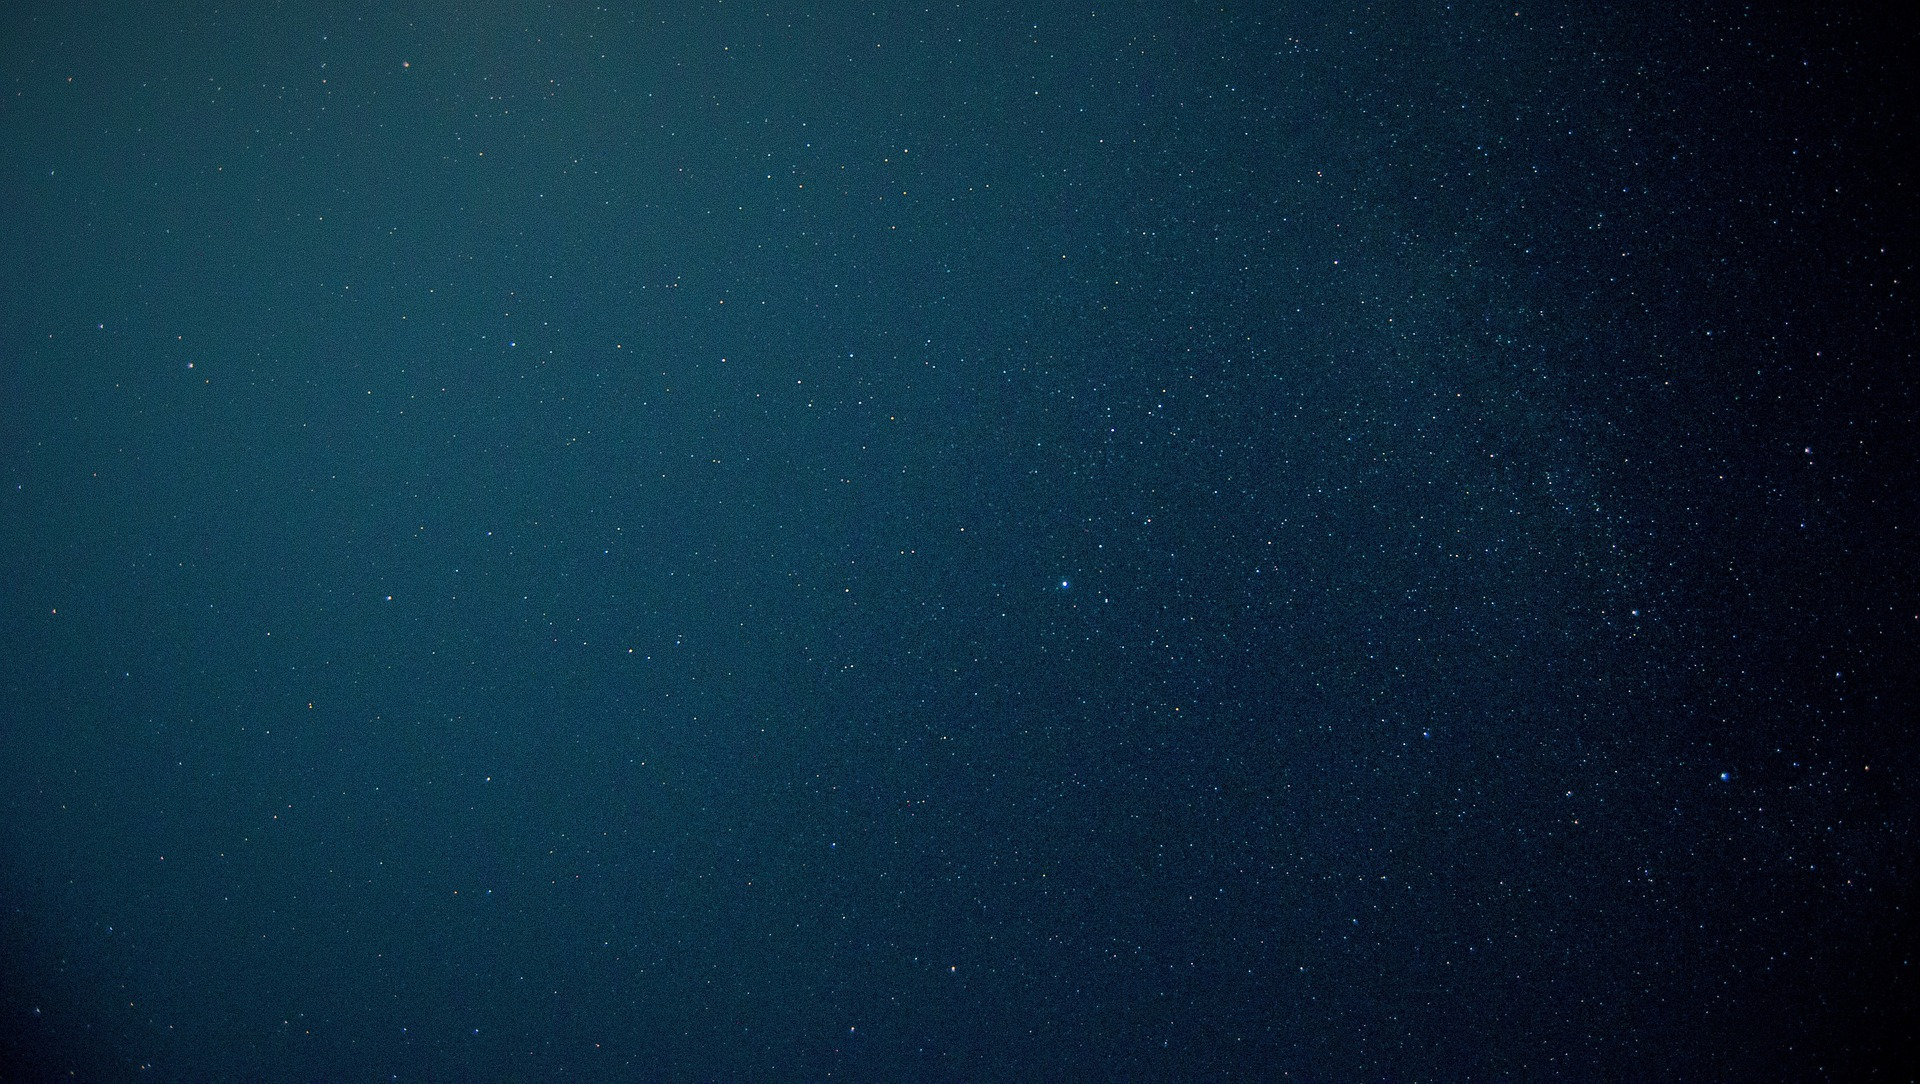
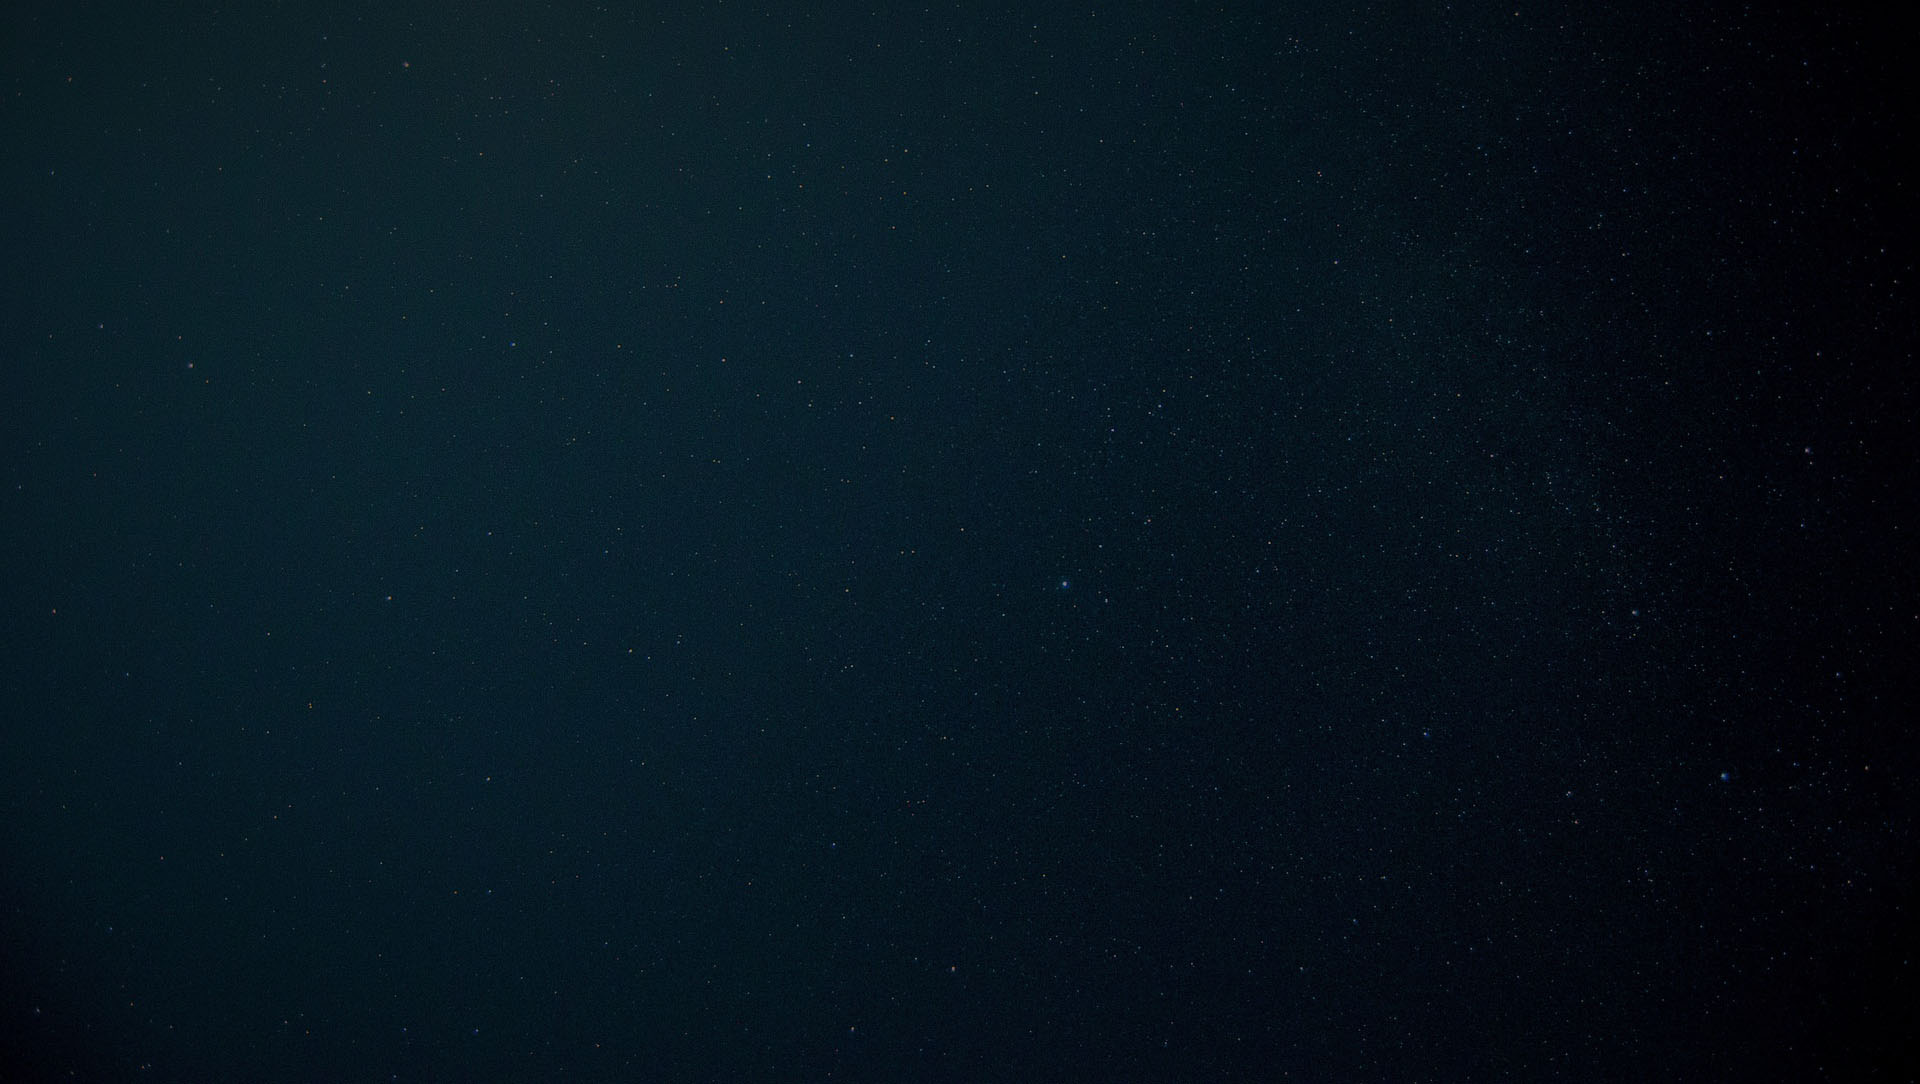
Color try3 Background Zujiry Contact

diff --git a/_sass/minimal-mistakes/_variables.scss b/_sass/minimal-mistakes/_variables.scss
@@ -66,12 +66,12 @@ $border-color               : $lighter-gray !default;
 $footer-color               : #000000 !default;
 $sidebar-color              : $transparent-background-color; /*$gray;*/
 $search-color               : $gray;
-$headline-color             : #7D97DE;
+$headline-color             : #21BC9D;
 
 $subtitle-text-color        : #8198D9;
-$title-text-color           : #0C917F;
+$title-text-color           : #7AC64F;
 
-$primary-color              : #13C613 !default;
+$primary-color              : #81A411 !default;
 $success-color              : #0F36A2 !default;
 $warning-color              : #f89406 !default;
 $danger-color               : #ee5f5b !default;
@@ -144,5 +144,5 @@ $global-transition          : all 0.2s ease-in-out !default;
    Images
    ========================================================================== */
 
-$background-image-tex      : url("/assets/images/stars.jpg");
+$background-image-tex      : url("/assets/images/back-skedge1.png");
 $background-image-masthead : url("/assets/images/stars.jpg");

diff --git a/activity-log/index.html b/activity-log/index.html
@@ -1,9 +1,7 @@
 ---
-layout: splash
+layout: single
 title: "Activity-Log"
 ---
-
-<h2> Activity-Log </h2>
 
 We always update our world and site and we want you to be part of the development too! Feel free to ask and suggest in the comments of our posts!
 

diff --git a/_pages/contact.md b/_pages/contact.md
@@ -12,27 +12,35 @@ You can also write a comment below every post!
 
 ### Zujiry
 
+Yo, I am Zujiry, kinda the organising hand behind Myrmagir.    
+I tried through some Pen-&-Paper games and really liked the ideas and worlds I could peek and sometimes live in and as Sungod and a friend of us came to me with lots of ideas it became my dream too to build our own world, at last here in the internet!  
+
+Since me being a coder guy, I am a coder guy here too building e.g. this website but mainly my dream is to write books, fantasy novels and such, and so I am mostly creating small worlds in our world! Have fun!
+
+Zujiry - Orga and Planet culture and history
+
 ### Sungod
 
 ### DRcadian
 
-Hallo everbody, my name is DRcadian and I am the medic of our group. I have started playing pen and paper role pay games (p&p RPGs) some years ago and the limitless possibilities have amazed me ever since. The combined imagination of your playgroup was the only thing constraining what you could do. 
-As a result the idea of creating our very own p&p RPG world really hooked me. 
+Hallo everbody, my name is DRcadian and I am the medic of our group.   
+I have started playing pen and paper role pay games (Pen-&-Paper RPGs) some years ago and the limitless possibilities have amazed me ever since. The combined imagination of your playgroup was the only thing constraining what you could do.  
+As a result the idea of creating our very own Pen-&-Paper RPG world really hooked me. 
 
-Me being a physician was probably the reason why I spend most of my time on developing the species which populate the solarsystem of Quinterra. 
-It's honestly a blast doing this type of creative work and I hope you all enjoy our world. 
+Me being a physician was probably the reason why I spend most of my time on developing the species which populate the solarsystem of Quinterra.  
+It's honestly a blast doing this type of creative work and I hope you all enjoy our world.  
 
 DRcadian - Species and General Design
 
 ### Jian Long
 
-Hi! I am Jian Long and actually quite new to the world of pen & paper games. 
-  However combining my nonbiased perspective with the experience of the other members, I think we figured it out pretty well and made a beginner friendly system that provides thrilling battles but focuses mainly on storytelling and interaction between the adventurers.
+Hi! I am Jian Long and actually quite new to the world of Pen-&-Paper games.  
+However combining my nonbiased perspective with the experience of the other members, I think we figured out pretty well to make a beginner friendly system that provides thrilling battles but focuses mainly on storytelling and interaction between the adventurers.  
 
 My task in the team is to combine the ideas about the environment and to create spatiality/ambience, emphasizing on architecture, 
-infrastructures and details which underline the given setting and atmosphere.
+infrastructures and details which underline the given setting and atmosphere.  
 
-Jian - Long Architecture & Design
+Jian Long - Architecture & Design
 
 ### Mondsycht
 
@@ -43,10 +51,10 @@ Jian - Long Architecture & Design
 <form action="https://formspree.io/myrmagir@gmail.com"
       method="POST">
     <p> Subject </p>
-    <input type="text" name="name">
+    <input type="text" name="_name">
     <p> Your Email </p>
     <input type="email" name="_replyto">
     <p> Your wish / question / matter </p>
-    <textarea rows="6" name="message"></textarea>
+    <textarea rows="6" name="_message"></textarea>
     <button class="btn">Send</button>
 </form>

diff --git a/_planets/01-planets.md b/_planets/01-planets.md
@@ -1,9 +1,6 @@
 ---
-layout: splash
+layout: single
 title: "Planets"
-header:
-  image: /assets/images/galaxy.jpg
-  teaser: /assets/images/galaxy.jpg
 permalink: /planets/
 author_profile: false
 ---
